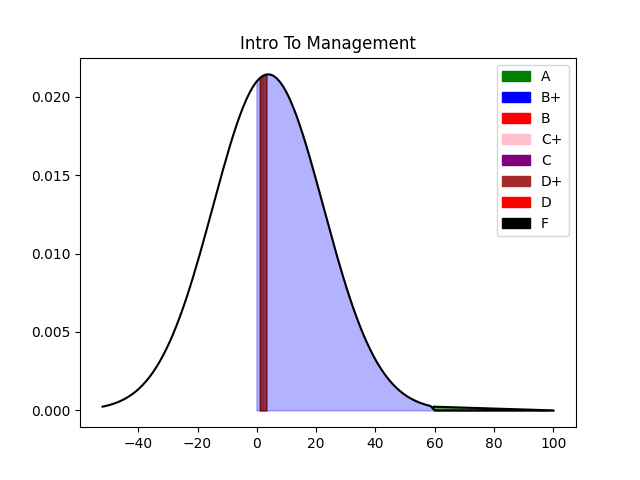
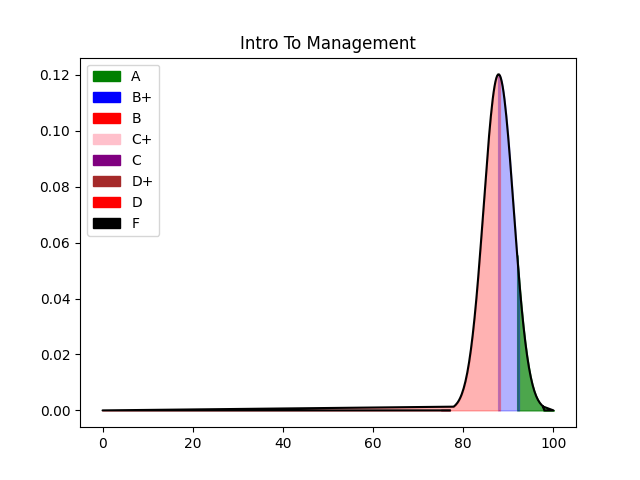
fully updated

diff --git a/GradeApp/predictions.py b/GradeApp/predictions.py
@@ -78,9 +78,14 @@ def make_prediction(score, ch, data):
     grade = np.where(res == np.max(res))[0][0]
 
     # Special Chk for Management Tentative
-    start = 95 if mean > 90 else 89
+    start = 92 if mean > 85 else 89
 
     boundaries = get_boundary(start, ch, mean, data)
+
+    if ch == 2:
+        print('Mean: ', mean)
+        print('Score: ', score)
+        print('Grade: ', grade_map[str(grade)])
     return (grade_map[str(grade)],
             (str(round(100 - (stats.norm.cdf((boundaries[8 - grade] - score) / sqrt(data.var())) * 100),
                        2)) if grade else "0") + "%",
@@ -96,7 +101,7 @@ def decide_boundary(ch, label, i_name, data):
         return
     mean = data.mean()
     std_deviation = sqrt(data.var())
-    score = 95 if label == "Intro To Management" else 89
+    score = 92 if mean > 85 else 89
 
     boundaries = get_boundary(score, ch, mean, data)
     # Plot the new curve and save it
